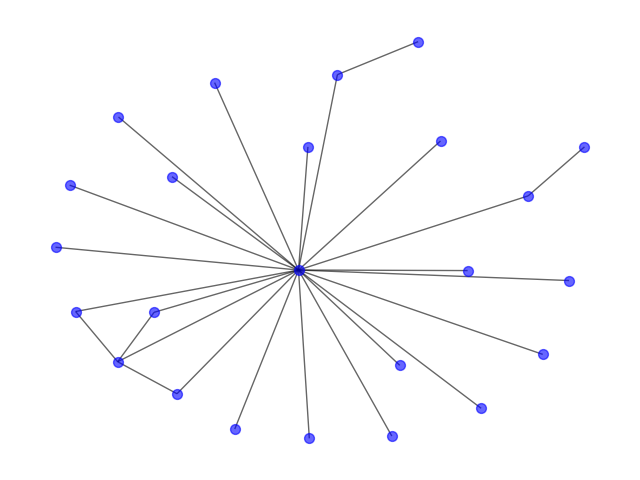
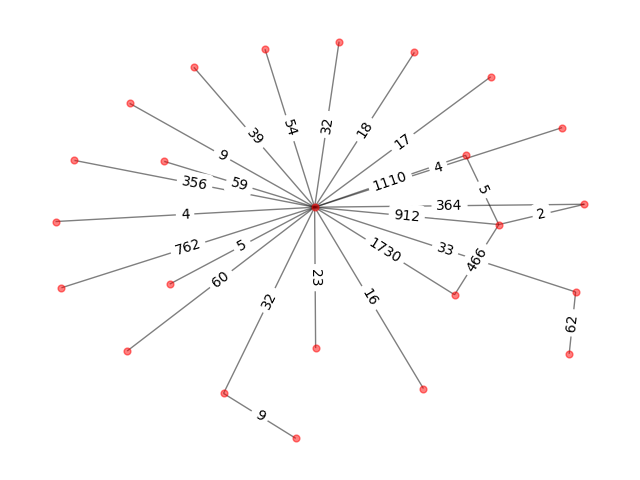
Agrega etiquetas a los ejes

diff --git a/tp1/plots/grafo.py b/tp1/plots/grafo.py
@@ -9,9 +9,11 @@ def plot(graph):
     G = nx.Graph()
     G.add_nodes_from(graph['nodes'])
     for u, v, c in graph['edges']:
-        G.add_edge(u, v, label=str(c))
-    nx.draw(G, with_labels=False, node_color="blue", alpha= 0.6, node_size=50,
-            pos=nx.spring_layout(G))
+        G.add_edge(u, v, cost=str(c)) 
+    edge_labels = nx.get_edge_attributes(G, 'cost')
+    pos = nx.spring_layout(G)
+    nx.draw(G,pos=pos, node_size=24, alpha=0.5)
+    nx.draw_networkx_edge_labels(G,pos=pos, edge_labels=edge_labels, alpha=0.5)
 
 
 def main():
